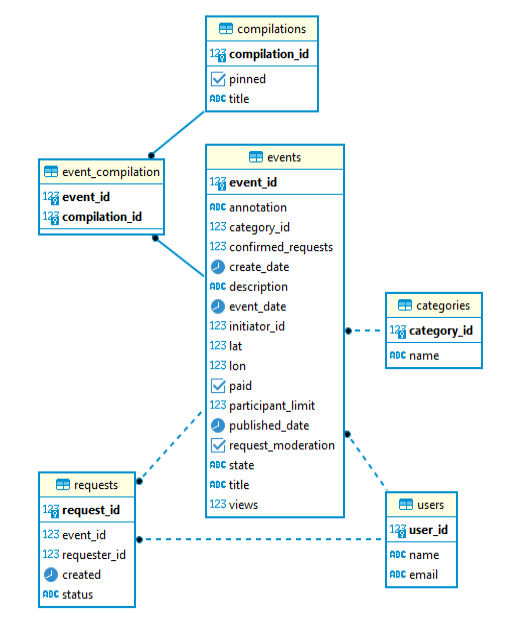
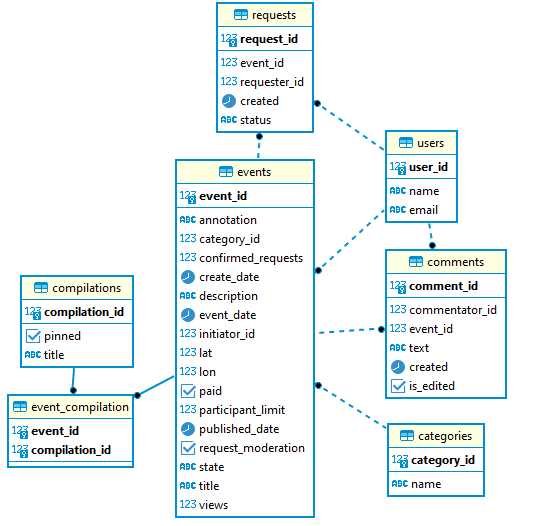
fix: убрать проблему n+1

Changed region(s): [[0.0, 0.0, 0.9538, 1.0]]

diff --git a/main/src/main/java/ru/practicum/categories/CategoryServiceImpl.java b/main/src/main/java/ru/practicum/categories/CategoryServiceImpl.java
@@ -6,6 +6,7 @@ import org.springframework.data.domain.Pageable;
 import org.springframework.data.domain.Sort;
 import org.springframework.stereotype.Service;
 import ru.practicum.categories.dto.CategoryDto;
+import ru.practicum.exceptions.ObjectAlreadyExistException;
 import ru.practicum.exceptions.ObjectNotFoundException;
 import ru.practicum.utils.OffsetPageRequest;
 
@@ -37,6 +38,7 @@ public class CategoryServiceImpl implements CategoryService {
     @Override
     public CategoryDto update(CategoryDto categoryDto) {
         Category category = checkCategory(categoryDto.getId());
+        checkName(categoryDto.getName());
         category.setName(categoryDto.getName());
         log.info("Обновлена категория {}", category);
         return categoryMapper.toDto(category);
@@ -44,6 +46,7 @@ public class CategoryServiceImpl implements CategoryService {
 
     @Override
     public CategoryDto add(CategoryDto categoryDto) {
+        checkName(categoryDto.getName());
         Category category = repository.save(categoryMapper.fromDto(categoryDto));
         log.info("Добавлена категория {}", category);
         return categoryMapper.toDto(category);
@@ -66,5 +69,12 @@ public class CategoryServiceImpl implements CategoryService {
 
     private Pageable getPageable(Integer from, Integer size) {
         return new OffsetPageRequest(from, size, Sort.unsorted());
+    }
+
+    private void checkName(String name) {
+        repository.findByName(name).ifPresent(
+                category -> {
+                    throw new ObjectAlreadyExistException("Категория с названием " + name + " уже существует.");
+                });
     }
 }

diff --git a/main/src/main/java/ru/practicum/requests/ParticipationRequest.java b/main/src/main/java/ru/practicum/requests/ParticipationRequest.java
@@ -1,10 +1,9 @@
 package ru.practicum.requests;
 
-import lombok.Getter;
-import lombok.Setter;
-import lombok.NoArgsConstructor;
 import lombok.AllArgsConstructor;
-import lombok.ToString;
+import lombok.Getter;
+import lombok.NoArgsConstructor;
+import lombok.Setter;
 import ru.practicum.events.Event;
 import ru.practicum.users.User;
 
@@ -15,7 +14,23 @@ import java.time.LocalDateTime;
 @Setter
 @NoArgsConstructor
 @AllArgsConstructor
-@ToString
+@NamedEntityGraph(
+        name = "request-entity-graph",
+        attributeNodes = {
+                @NamedAttributeNode(value = "event", subgraph = "event-subgraph"),
+                @NamedAttributeNode("requester")
+        },
+        subgraphs = {
+                @NamedSubgraph(
+                        name = "event-subgraph",
+                        attributeNodes = {
+                                @NamedAttributeNode("category"),
+                                @NamedAttributeNode("initiator"),
+                                @NamedAttributeNode("comments"),
+                        }
+                )
+        }
+)
 @Entity
 @Table(name = "requests")
 public class ParticipationRequest {
@@ -38,4 +53,14 @@ public class ParticipationRequest {
     @Enumerated(EnumType.STRING)
     private RequestStatus status;
 
+    @Override
+    public String toString() {
+        return "ParticipationRequest{" +
+                "id=" + id +
+                ", event=" + event +
+                ", requester=" + requester +
+                ", created=" + created +
+                ", status=" + status +
+                '}';
+    }
 }

diff --git a/main/src/main/java/ru/practicum/events/EventRepository.java b/main/src/main/java/ru/practicum/events/EventRepository.java
@@ -1,19 +1,35 @@
 package ru.practicum.events;
 
+import org.springframework.data.domain.Page;
 import org.springframework.data.domain.Pageable;
+import org.springframework.data.jpa.domain.Specification;
+import org.springframework.data.jpa.repository.EntityGraph;
 import org.springframework.data.jpa.repository.JpaRepository;
 import org.springframework.data.jpa.repository.JpaSpecificationExecutor;
 import org.springframework.stereotype.Repository;
+import org.springframework.lang.Nullable;
 
 import java.util.List;
+import java.util.Optional;
 
 @Repository
 public interface EventRepository extends JpaRepository<Event, Long>, JpaSpecificationExecutor<Event> {
 
+    String GRAPH = "event-entity-graph";
+
+    @EntityGraph(GRAPH)
+    Page<Event> findAll(@Nullable Specification<Event> specification, @Nullable Pageable pageable);
+
+    @EntityGraph(GRAPH)
+    Optional<Event> findById(@Nullable Long id);
+
+    @EntityGraph(GRAPH)
     List<Event> findAllByInitiatorId(Long initiatorId, Pageable pageable);
 
+    @EntityGraph(GRAPH)
     Event findByInitiatorIdAndId(Long initiatorId, Long eventId);
 
+    @EntityGraph(GRAPH)
     Event findByIdAndStateLike(Long eventId, EventState state);
 
 }

diff --git a/main/src/main/java/ru/practicum/compilations/CompilationRepository.java b/main/src/main/java/ru/practicum/compilations/CompilationRepository.java
@@ -1,6 +1,7 @@
 package ru.practicum.compilations;
 
 import org.springframework.data.domain.Pageable;
+import org.springframework.data.jpa.repository.EntityGraph;
 import org.springframework.data.jpa.repository.JpaRepository;
 import org.springframework.data.jpa.repository.Modifying;
 import org.springframework.data.jpa.repository.Query;
@@ -11,6 +12,7 @@ import java.util.List;
 @Repository
 public interface CompilationRepository extends JpaRepository<Compilation, Long> {
 
+    @EntityGraph("compilation-entity-graph")
     List<Compilation> findAllByPinnedIs(boolean pinned, Pageable pageable);
 
     @Modifying
@@ -20,9 +22,5 @@ public interface CompilationRepository extends JpaRepository<Compilation, Long> 
     @Modifying
     @Query(value = "INSERT INTO event_compilation (compilation_id, event_id) VALUES (?1, ?2)", nativeQuery = true)
     void addEvent(Long compilationId, Long eventId);
-
-    @Modifying
-    @Query(value = "UPDATE compilations SET pinned = ?1 WHERE compilation_id = ?2", nativeQuery = true)
-    void pinningCompilation(boolean pin, Long compilationId);
 
 }

diff --git a/main/src/main/java/ru/practicum/users/UserServiceImpl.java b/main/src/main/java/ru/practicum/users/UserServiceImpl.java
@@ -5,6 +5,7 @@ import lombok.extern.slf4j.Slf4j;
 import org.springframework.data.domain.Pageable;
 import org.springframework.data.domain.Sort;
 import org.springframework.stereotype.Service;
+import ru.practicum.exceptions.ObjectAlreadyExistException;
 import ru.practicum.exceptions.ObjectNotFoundException;
 import ru.practicum.exceptions.ValidationException;
 import ru.practicum.users.dto.FullUserDto;
@@ -66,6 +67,11 @@ public class UserServiceImpl implements UserService {
         if (email == null || email.isEmpty() || email.isBlank()) {
             throw new ValidationException("Почта не может быть пустой");
         }
+        repository.findByEmail(email).ifPresent(
+                user -> {
+                    throw new ObjectAlreadyExistException("Пользователь с почтой " + email + " уже существует.");
+                }
+        );
     }
 
     private Pageable getPageable(Integer from, Integer size) {

diff --git a/main/src/main/java/ru/practicum/compilations/Compilation.java b/main/src/main/java/ru/practicum/compilations/Compilation.java
@@ -6,21 +6,16 @@ import lombok.NoArgsConstructor;
 import lombok.Setter;
 import ru.practicum.events.Event;
 
-import javax.persistence.Entity;
-import javax.persistence.Table;
-import javax.persistence.Id;
-import javax.persistence.GeneratedValue;
-import javax.persistence.GenerationType;
-import javax.persistence.Column;
-import javax.persistence.ManyToMany;
-import javax.persistence.JoinTable;
-import javax.persistence.JoinColumn;
+import javax.persistence.*;
 import java.util.List;
 
 @Getter
 @Setter
 @NoArgsConstructor
 @AllArgsConstructor
+@NamedEntityGraph(
+        name = "compilation-entity-graph",
+        attributeNodes = @NamedAttributeNode("events"))
 @Entity
 @Table(name = "compilations")
 public class Compilation {

diff --git a/main/src/main/java/ru/practicum/requests/ParticipationRequestRepository.java b/main/src/main/java/ru/practicum/requests/ParticipationRequestRepository.java
@@ -1,5 +1,6 @@
 package ru.practicum.requests;
 
+import org.springframework.data.jpa.repository.EntityGraph;
 import org.springframework.data.jpa.repository.JpaRepository;
 import org.springframework.data.jpa.repository.Modifying;
 import org.springframework.data.jpa.repository.Query;
@@ -10,8 +11,12 @@ import java.util.List;
 @Repository
 public interface ParticipationRequestRepository extends JpaRepository<ParticipationRequest, Long> {
 
+    String GRAPH = "request-entity-graph";
+
+    @EntityGraph(GRAPH)
     List<ParticipationRequest> findAllByRequesterId(Long requesterId);
 
+    @EntityGraph(GRAPH)
     List<ParticipationRequest> findAllByEventId(Long eventId);
 
     @Modifying(clearAutomatically = true)

diff --git a/main/src/main/java/ru/practicum/compilations/CompilationServiceImpl.java b/main/src/main/java/ru/practicum/compilations/CompilationServiceImpl.java
@@ -73,8 +73,8 @@ public class CompilationServiceImpl implements CompilationService {
     @Override
     @Transactional
     public void pinningCompilation(boolean pin, Long compilationId) {
-        repository.pinningCompilation(pin, compilationId);
         Compilation compilation = checkCompilation(compilationId);
+        compilation.setPinned(pin);
         if (pin) {
             log.info("Подборка закреплена {}", compilation);
         } else {

diff --git a/main/src/main/java/ru/practicum/events/Event.java b/main/src/main/java/ru/practicum/events/Event.java
@@ -13,6 +13,14 @@ import java.util.List;
 @Setter
 @NoArgsConstructor
 @AllArgsConstructor
+@NamedEntityGraph(
+        name = "event-entity-graph",
+        attributeNodes = {
+                @NamedAttributeNode("category"),
+                @NamedAttributeNode("initiator"),
+                @NamedAttributeNode("comments"),
+        }
+)
 @Entity
 @Table(name = "events")
 public class Event {

diff --git a/main/src/main/java/ru/practicum/categories/CategoryRepository.java b/main/src/main/java/ru/practicum/categories/CategoryRepository.java
@@ -3,7 +3,11 @@ package ru.practicum.categories;
 import org.springframework.data.jpa.repository.JpaRepository;
 import org.springframework.stereotype.Repository;
 
+import java.util.Optional;
+
 @Repository
 public interface CategoryRepository extends JpaRepository<Category, Long> {
+
+    Optional<Category> findByName(String name);
 
 }

diff --git a/main/src/main/java/ru/practicum/users/UserRepository.java b/main/src/main/java/ru/practicum/users/UserRepository.java
@@ -3,7 +3,11 @@ package ru.practicum.users;
 import org.springframework.data.jpa.repository.JpaRepository;
 import org.springframework.stereotype.Repository;
 
+import java.util.Optional;
+
 @Repository
 public interface UserRepository extends JpaRepository<User, Long> {
+
+    Optional<User> findByEmail(String email);
 
 }

diff --git a/main/src/main/java/ru/practicum/events/userprivate/PrivateEventServiceImpl.java b/main/src/main/java/ru/practicum/events/userprivate/PrivateEventServiceImpl.java
@@ -213,5 +213,4 @@ public class PrivateEventServiceImpl implements PrivateEventService {
     private Pageable getPageable(Integer from, Integer size, Sort sort) {
         return new OffsetPageRequest(from, size, sort);
     }
-
 }
